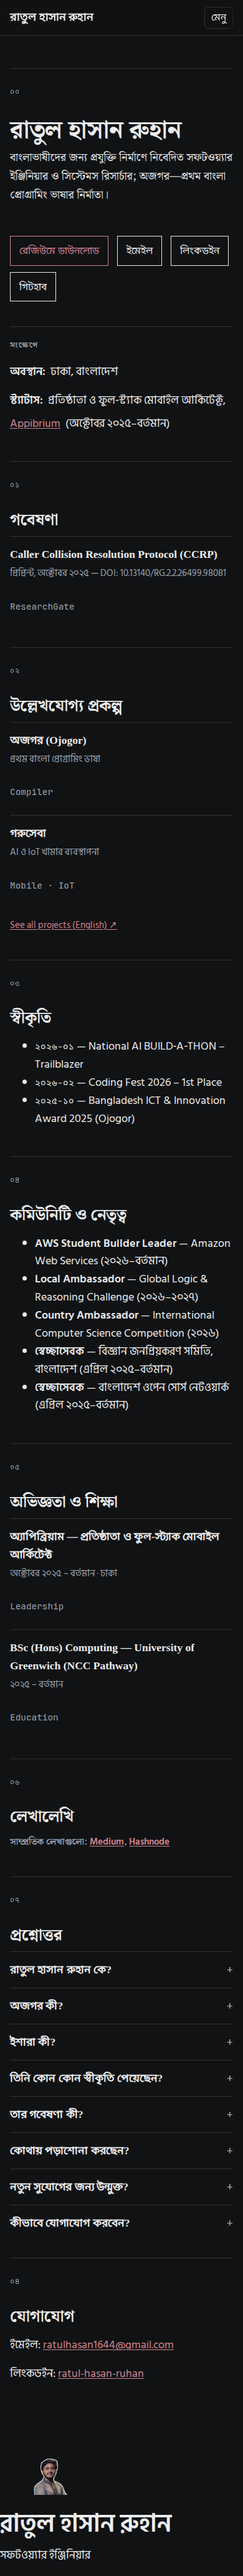
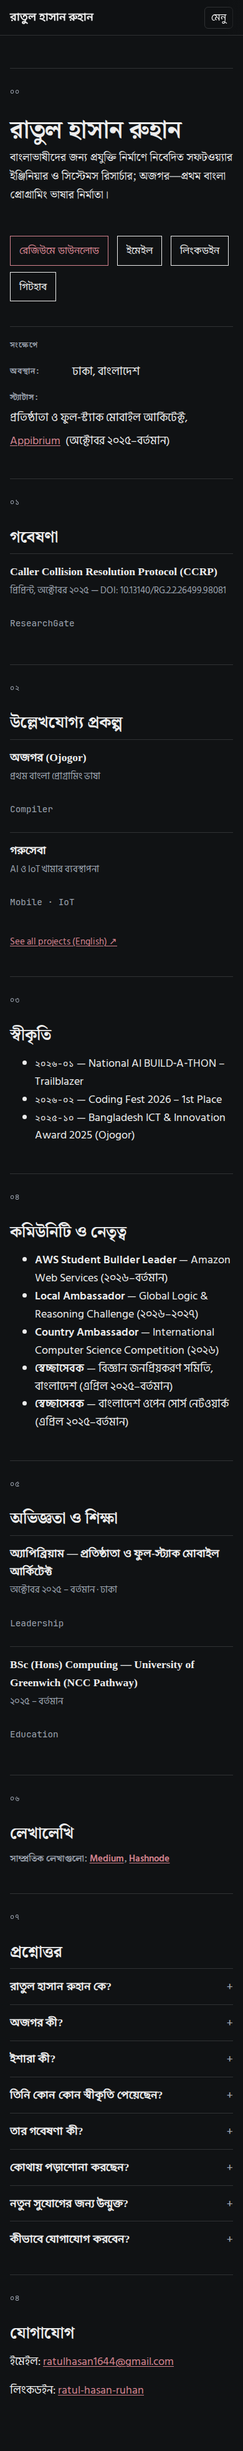
Round 5: fully truncated legacy HTML; bn cleanup; mobile menu overlay and close; at-a-glance labels; refreshed verification (added menu-open screenshots)

diff --git a/bn/index.html b/bn/index.html
@@ -72,10 +72,6 @@
       font-family: 'Hind Siliguri', 'Poppins', sans-serif;
     }
 
-    /* Static page: sidebar always open, no toggle, nav links are plain anchors */
-    .sidebar { max-height: none; }
-    .sidebar-info_more { opacity: 1; visibility: visible; }
-    .info_more-btn { display: none; }
     .navbar-link { text-decoration: none; }
 
     .lang-note {

diff --git a/scripts/verify_and_screenshot.py b/scripts/verify_and_screenshot.py
@@ -71,7 +71,7 @@ async def main():
                         try:
                             await page.click('#menu-toggle', timeout=1000)
                             await page.wait_for_timeout(200)
-                            fn = OUT_DIR / f\"mobile-{locale}-menu-open.png\"
+                            fn = OUT_DIR / f"mobile-{locale}-menu-open.png"
                             await page.screenshot(path=str(fn), full_page=True)
                             # close menu
                             await page.click('#menu-toggle', timeout=1000)

diff --git a/docs/preview/report.md b/docs/preview/report.md
@@ -1,18 +1,18 @@
-# Verification Report (2026-10-18T02:45:01.780603Z)
+# Verification Report (2026-10-18T02:53:00.384205Z)
 
-- / [en] light 390 => scrollWidth 390 / innerWidth 390 — OK; scrollHeight 8013; legacyStrings=False
-- / [en] dark 390 => scrollWidth 390 / innerWidth 390 — OK; scrollHeight 8013; legacyStrings=False
-- / [en] light 768 => scrollWidth 768 / innerWidth 768 — OK; scrollHeight 6727; legacyStrings=False
-- / [en] dark 768 => scrollWidth 768 / innerWidth 768 — OK; scrollHeight 6727; legacyStrings=False
-- / [en] light 1100 => scrollWidth 1100 / innerWidth 1100 — OK; scrollHeight 4922; legacyStrings=False
-- / [en] dark 1100 => scrollWidth 1100 / innerWidth 1100 — OK; scrollHeight 4922; legacyStrings=False
-- / [en] light 1280 => scrollWidth 1280 / innerWidth 1280 — OK; scrollHeight 4922; legacyStrings=False
-- / [en] dark 1280 => scrollWidth 1280 / innerWidth 1280 — OK; scrollHeight 4922; legacyStrings=False
-- /bn/ [bn] light 390 => scrollWidth 390 / innerWidth 390 — OK; scrollHeight 4128; legacyStrings=False
-- /bn/ [bn] dark 390 => scrollWidth 390 / innerWidth 390 — OK; scrollHeight 4128; legacyStrings=False
-- /bn/ [bn] light 768 => scrollWidth 768 / innerWidth 768 — OK; scrollHeight 3766; legacyStrings=False
-- /bn/ [bn] dark 768 => scrollWidth 768 / innerWidth 768 — OK; scrollHeight 3766; legacyStrings=False
-- /bn/ [bn] light 1100 => scrollWidth 1100 / innerWidth 1100 — OK; scrollHeight 2913; legacyStrings=False
-- /bn/ [bn] dark 1100 => scrollWidth 1100 / innerWidth 1100 — OK; scrollHeight 2913; legacyStrings=False
-- /bn/ [bn] light 1280 => scrollWidth 1280 / innerWidth 1280 — OK; scrollHeight 2975; legacyStrings=False
-- /bn/ [bn] dark 1280 => scrollWidth 1280 / innerWidth 1280 — OK; scrollHeight 2975; legacyStrings=False
+- / [en] light 390 => scrollWidth 390 / innerWidth 390 — OK; scrollHeight 7484; legacyStrings=False
+- / [en] dark 390 => scrollWidth 390 / innerWidth 390 — OK; scrollHeight 7484; legacyStrings=False
+- / [en] light 768 => scrollWidth 768 / innerWidth 768 — OK; scrollHeight 6206; legacyStrings=False
+- / [en] dark 768 => scrollWidth 768 / innerWidth 768 — OK; scrollHeight 6206; legacyStrings=False
+- / [en] light 1100 => scrollWidth 1100 / innerWidth 1100 — OK; scrollHeight 4411; legacyStrings=False
+- / [en] dark 1100 => scrollWidth 1100 / innerWidth 1100 — OK; scrollHeight 4411; legacyStrings=False
+- / [en] light 1280 => scrollWidth 1280 / innerWidth 1280 — OK; scrollHeight 4411; legacyStrings=False
+- / [en] dark 1280 => scrollWidth 1280 / innerWidth 1280 — OK; scrollHeight 4411; legacyStrings=False
+- /bn/ [bn] light 390 => scrollWidth 390 / innerWidth 390 — OK; scrollHeight 3929; legacyStrings=False
+- /bn/ [bn] dark 390 => scrollWidth 390 / innerWidth 390 — OK; scrollHeight 3929; legacyStrings=False
+- /bn/ [bn] light 768 => scrollWidth 768 / innerWidth 768 — OK; scrollHeight 3528; legacyStrings=False
+- /bn/ [bn] dark 768 => scrollWidth 768 / innerWidth 768 — OK; scrollHeight 3528; legacyStrings=False
+- /bn/ [bn] light 1100 => scrollWidth 1100 / innerWidth 1100 — OK; scrollHeight 2653; legacyStrings=False
+- /bn/ [bn] dark 1100 => scrollWidth 1100 / innerWidth 1100 — OK; scrollHeight 2653; legacyStrings=False
+- /bn/ [bn] light 1280 => scrollWidth 1280 / innerWidth 1280 — OK; scrollHeight 2708; legacyStrings=False
+- /bn/ [bn] dark 1280 => scrollWidth 1280 / innerWidth 1280 — OK; scrollHeight 2708; legacyStrings=False
